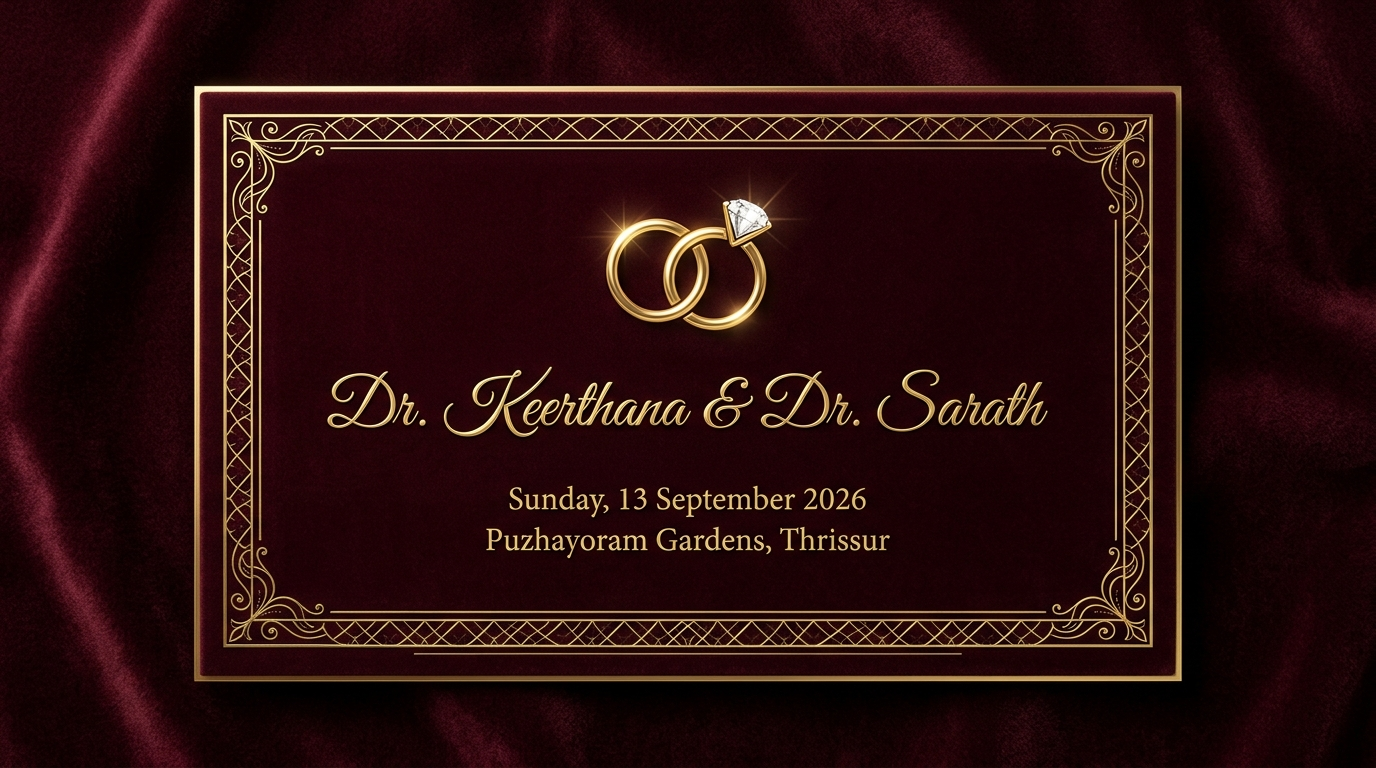
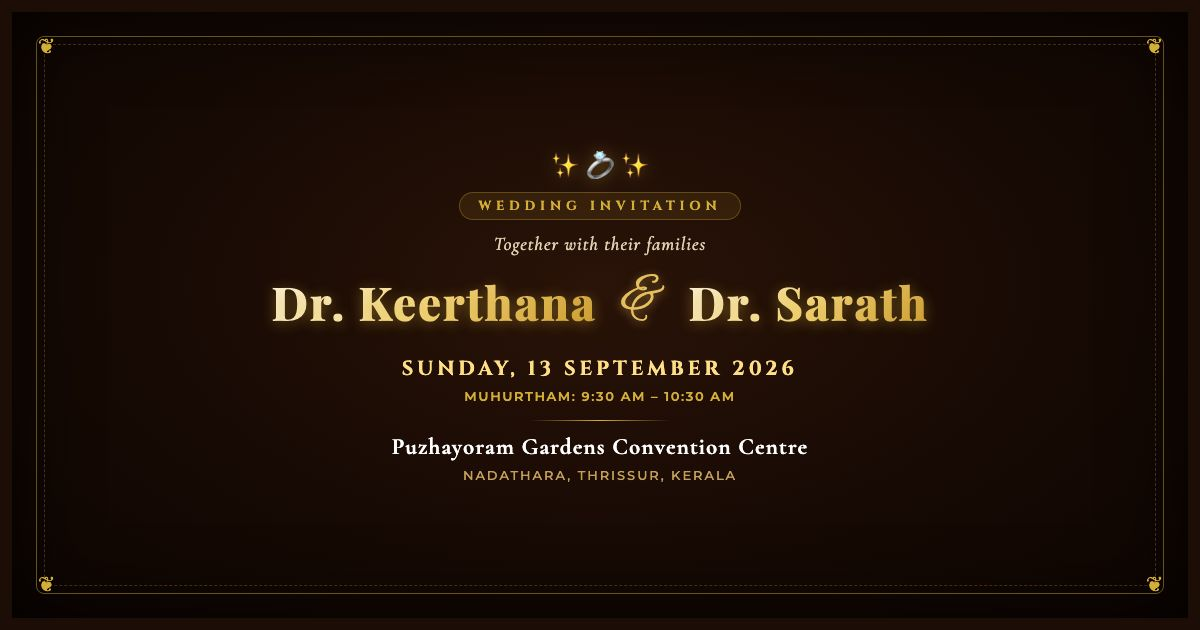
Auto-pause background music on tab switch or page navigation and updated WhatsApp share card to crisp clean design with correct venue

diff --git a/scratch/og_card.html b/scratch/og_card.html
@@ -1,0 +1,221 @@
+<!DOCTYPE html>
+<html lang="en">
+<head>
+  <meta charset="UTF-8" />
+  <meta name="viewport" content="width=1200, height=630, initial-scale=1.0" />
+  <title>OG Preview Card</title>
+  <link rel="preconnect" href="https://fonts.googleapis.com" />
+  <link rel="preconnect" href="https://fonts.gstatic.com" crossorigin />
+  <link href="https://fonts.googleapis.com/css2?family=Alex+Brush&family=Cinzel:wght@500;700;900&family=Cormorant+Garamond:ital,wght@0,500;0,700;1,500;1,700&family=Montserrat:wght@400;500;600;700&family=Playfair+Display:ital,wght@0,600;0,800;1,600&display=swap" rel="stylesheet" />
+  <style>
+    * {
+      box-sizing: border-box;
+      margin: 0;
+      padding: 0;
+    }
+
+    html, body {
+      width: 1200px;
+      height: 630px;
+      overflow: hidden;
+      background: #140A06;
+      font-family: 'Cinzel', serif;
+      color: #FFF6E5;
+      display: flex;
+      align-items: center;
+      justify-content: center;
+    }
+
+    .card-canvas {
+      width: 1200px;
+      height: 630px;
+      position: relative;
+      background: radial-gradient(ellipse at 50% 45%, #2A1308 0%, #170A04 55%, #0D0502 100%);
+      display: flex;
+      flex-direction: column;
+      align-items: center;
+      justify-content: center;
+      padding: 40px;
+      border: 12px solid #1C0E07;
+      box-shadow: inset 0 0 80px rgba(0, 0, 0, 0.8);
+    }
+
+    /* Elegant Double Gold Border */
+    .inner-border {
+      position: absolute;
+      inset: 24px;
+      border: 1.5px solid rgba(212, 175, 55, 0.45);
+      border-radius: 8px;
+      pointer-events: none;
+    }
+
+    .inner-border-2 {
+      position: absolute;
+      inset: 32px;
+      border: 1px dashed rgba(212, 175, 55, 0.25);
+      border-radius: 4px;
+      pointer-events: none;
+    }
+
+    /* Corner Florets */
+    .corner {
+      position: absolute;
+      width: 32px;
+      height: 32px;
+      color: #D4AF37;
+      font-size: 20px;
+      display: flex;
+      align-items: center;
+      justify-content: center;
+    }
+    .c-tl { top: 18px; left: 18px; }
+    .c-tr { top: 18px; right: 18px; }
+    .c-bl { bottom: 18px; left: 18px; }
+    .c-br { bottom: 18px; right: 18px; }
+
+    /* Top Subtitle */
+    .top-crest {
+      font-size: 28px;
+      margin-bottom: 6px;
+      color: #D4AF37;
+      filter: drop-shadow(0 2px 8px rgba(212, 175, 55, 0.5));
+    }
+
+    .invitation-badge {
+      font-family: 'Cinzel', serif;
+      font-size: 13px;
+      font-weight: 700;
+      letter-spacing: 0.38em;
+      color: #D4AF37;
+      text-transform: uppercase;
+      margin-bottom: 12px;
+      background: rgba(212, 175, 55, 0.1);
+      padding: 4px 18px;
+      border-radius: 9999px;
+      border: 1px solid rgba(212, 175, 55, 0.3);
+    }
+
+    .families-intro {
+      font-family: 'Cormorant Garamond', serif;
+      font-size: 19px;
+      font-style: italic;
+      color: #E2CEB1;
+      margin-bottom: 16px;
+      letter-spacing: 0.05em;
+    }
+
+    /* Couple Names */
+    .couple-row {
+      display: flex;
+      align-items: center;
+      justify-content: center;
+      gap: 20px;
+      margin-bottom: 18px;
+    }
+
+    .name {
+      font-family: 'Playfair Display', Georgia, serif;
+      font-size: 46px;
+      font-weight: 800;
+      color: #FFF3D6;
+      letter-spacing: 0.04em;
+      text-shadow: 0 2px 14px rgba(212, 175, 55, 0.4);
+      background: linear-gradient(135deg, #FFF8E7 0%, #F5D77F 50%, #C9972E 100%);
+      -webkit-background-clip: text;
+      -webkit-text-fill-color: transparent;
+    }
+
+    .ampersand {
+      font-family: 'Alex Brush', cursive;
+      font-size: 58px;
+      color: #E5BE5E;
+      line-height: 1;
+      padding: 0 4px;
+      text-shadow: 0 2px 8px rgba(229, 190, 94, 0.5);
+    }
+
+    /* Date & Venue Box */
+    .details-box {
+      display: flex;
+      flex-direction: column;
+      align-items: center;
+      gap: 6px;
+      margin-top: 4px;
+    }
+
+    .wedding-date {
+      font-family: 'Cinzel', serif;
+      font-size: 20px;
+      font-weight: 700;
+      color: #FFDF85;
+      letter-spacing: 0.2em;
+      text-transform: uppercase;
+    }
+
+    .muhurtham-tag {
+      font-family: 'Montserrat', sans-serif;
+      font-size: 13px;
+      font-weight: 600;
+      color: #D4AF37;
+      letter-spacing: 0.12em;
+      text-transform: uppercase;
+      margin-bottom: 4px;
+    }
+
+    .divider-line {
+      width: 140px;
+      height: 1px;
+      background: linear-gradient(90deg, transparent, #D4AF37, transparent);
+      margin: 6px 0;
+    }
+
+    .venue-name {
+      font-family: 'Cormorant Garamond', serif;
+      font-size: 23px;
+      font-weight: 700;
+      color: #FFFFFF;
+      letter-spacing: 0.05em;
+    }
+
+    .venue-location {
+      font-family: 'Montserrat', sans-serif;
+      font-size: 13px;
+      font-weight: 500;
+      color: #C5A059;
+      letter-spacing: 0.15em;
+      text-transform: uppercase;
+    }
+  </style>
+</head>
+<body>
+
+  <div class="card-canvas">
+    <div class="inner-border"></div>
+    <div class="inner-border-2"></div>
+    
+    <div class="corner c-tl">❦</div>
+    <div class="corner c-tr">❦</div>
+    <div class="corner c-bl">❦</div>
+    <div class="corner c-br">❦</div>
+
+    <div class="top-crest">✨ 💍 ✨</div>
+    <div class="invitation-badge">Wedding Invitation</div>
+    <div class="families-intro">Together with their families</div>
+
+    <div class="couple-row">
+      <div class="name">Dr. Keerthana</div>
+      <div class="ampersand">&amp;</div>
+      <div class="name">Dr. Sarath</div>
+    </div>
+
+    <div class="details-box">
+      <div class="wedding-date">Sunday, 13 September 2026</div>
+      <div class="muhurtham-tag">Muhurtham: 9:30 AM – 10:30 AM</div>
+      <div class="divider-line"></div>
+      <div class="venue-name">Puzhayoram Gardens Convention Centre</div>
+      <div class="venue-location">Nadathara, Thrissur, Kerala</div>
+    </div>
+  </div>
+
+</body>
+</html>

diff --git a/js/audio.js b/js/audio.js
@@ -1,6 +1,7 @@
 /**
  * ===================================================================
- * BACKGROUND AUDIO CONTROLLER
+ * BACKGROUND AUDIO CONTROLLER (AUTO-PAUSES ON LEAVING / TAB SWITCH)
+ * Immediately stops audio when switching tabs, opening maps, or minimizing
  * ===================================================================
  */
 
@@ -8,6 +9,7 @@ class WeddingAudioManager {
   constructor() {
     this.audio = document.getElementById('bg-music');
     this.isPlaying = false;
+    this.wasPlayingBeforeLeave = false;
     this.equalizerElement = document.querySelector('.music-equalizer');
     this.toggleButton = document.getElementById('music-toggle-btn');
     this.config = (window.WEDDING_CONFIG && window.WEDDING_CONFIG.audio) || {};
@@ -29,7 +31,11 @@ class WeddingAudioManager {
     this.audio.preload = 'auto';
 
     if (this.toggleButton) {
-      this.toggleButton.addEventListener('click', () => this.togglePlay());
+      this.toggleButton.addEventListener('click', () => {
+        this.togglePlay();
+        // If user manually clicks, clear the auto-resume flag
+        this.wasPlayingBeforeLeave = false;
+      });
     }
 
     this.audio.addEventListener('play', () => {
@@ -40,6 +46,44 @@ class WeddingAudioManager {
     this.audio.addEventListener('pause', () => {
       this.isPlaying = false;
       this.updateUI(false);
+    });
+
+    // ── AUTO-PAUSE WHEN LEAVING PAGE OR SWITCHING TABS / APPS ──
+    document.addEventListener('visibilitychange', () => {
+      if (document.hidden) {
+        if (this.isPlaying) {
+          this.wasPlayingBeforeLeave = true;
+          this.pause();
+        }
+      } else {
+        if (this.wasPlayingBeforeLeave) {
+          this.play();
+          this.wasPlayingBeforeLeave = false;
+        }
+      }
+    });
+
+    // Extra safeguards for mobile browser exit, maps redirection, and tab unload
+    window.addEventListener('pagehide', () => {
+      this.pause();
+    });
+
+    window.addEventListener('beforeunload', () => {
+      this.pause();
+    });
+
+    window.addEventListener('blur', () => {
+      if (this.isPlaying) {
+        this.wasPlayingBeforeLeave = true;
+        this.pause();
+      }
+    });
+
+    window.addEventListener('focus', () => {
+      if (this.wasPlayingBeforeLeave && !document.hidden) {
+        this.play();
+        this.wasPlayingBeforeLeave = false;
+      }
     });
   }
 
@@ -111,6 +155,7 @@ class WeddingAudioManager {
 
         gain.gain.setValueAtTime(0, now + idx * 0.08);
         gain.gain.linearRampToValueAtTime(0.2, now + idx * 0.08 + 0.02);
+        gain.gain.exponentialRampToValueAtTime(0.001, now + idx * 0.08 + 0.02);
         gain.gain.exponentialRampToValueAtTime(0.001, now + idx * 0.08 + 0.9);
 
         osc.connect(gain);

diff --git a/index.html b/index.html
@@ -37,10 +37,11 @@
   <link rel="stylesheet" href="https://fonts.googleapis.com/css2?family=Alex+Brush&family=Cinzel:wght@400;600;700;900&family=Cormorant+Garamond:ital,wght@0,400;0,600;1,400;1,600&family=Montserrat:wght@400;500;600;700&family=Great+Vibes&display=swap" />
 
   <!-- Stylesheets with Cache-Busting -->
-  <link rel="stylesheet" href="css/style.css?v=21.0" />
-  <link rel="stylesheet" href="css/envelope.css?v=21.0" />
-  <link rel="stylesheet" href="css/scratch.css?v=21.0" />
+  <link rel="stylesheet" href="css/style.css?v=22.0" />
+  <link rel="stylesheet" href="css/envelope.css?v=22.0" />
+  <link rel="stylesheet" href="css/scratch.css?v=22.0" />
 </head>
+
 
 
 <body>
@@ -681,15 +682,16 @@
   <div class="toast-notice" role="alert"></div>
 
   <!-- JavaScript Modules with Cache-Busting -->
-  <script src="js/config.js?v=21.0"></script>
-  <script src="js/petals.js?v=21.0"></script>
-  <script src="js/sparkles.js?v=21.0"></script>
-  <script src="js/audio.js?v=21.0"></script>
-  <script src="js/envelope.js?v=21.0"></script>
-  <script src="js/scratch.js?v=21.0"></script>
-  <script src="js/countdown.js?v=21.0"></script>
-  <script src="js/rsvp.js?v=21.0"></script>
-  <script src="js/main.js?v=21.0"></script>
+  <script src="js/config.js?v=22.0"></script>
+  <script src="js/petals.js?v=22.0"></script>
+  <script src="js/sparkles.js?v=22.0"></script>
+  <script src="js/audio.js?v=22.0"></script>
+  <script src="js/envelope.js?v=22.0"></script>
+  <script src="js/scratch.js?v=22.0"></script>
+  <script src="js/countdown.js?v=22.0"></script>
+  <script src="js/rsvp.js?v=22.0"></script>
+  <script src="js/main.js?v=22.0"></script>
+
 
 
 
